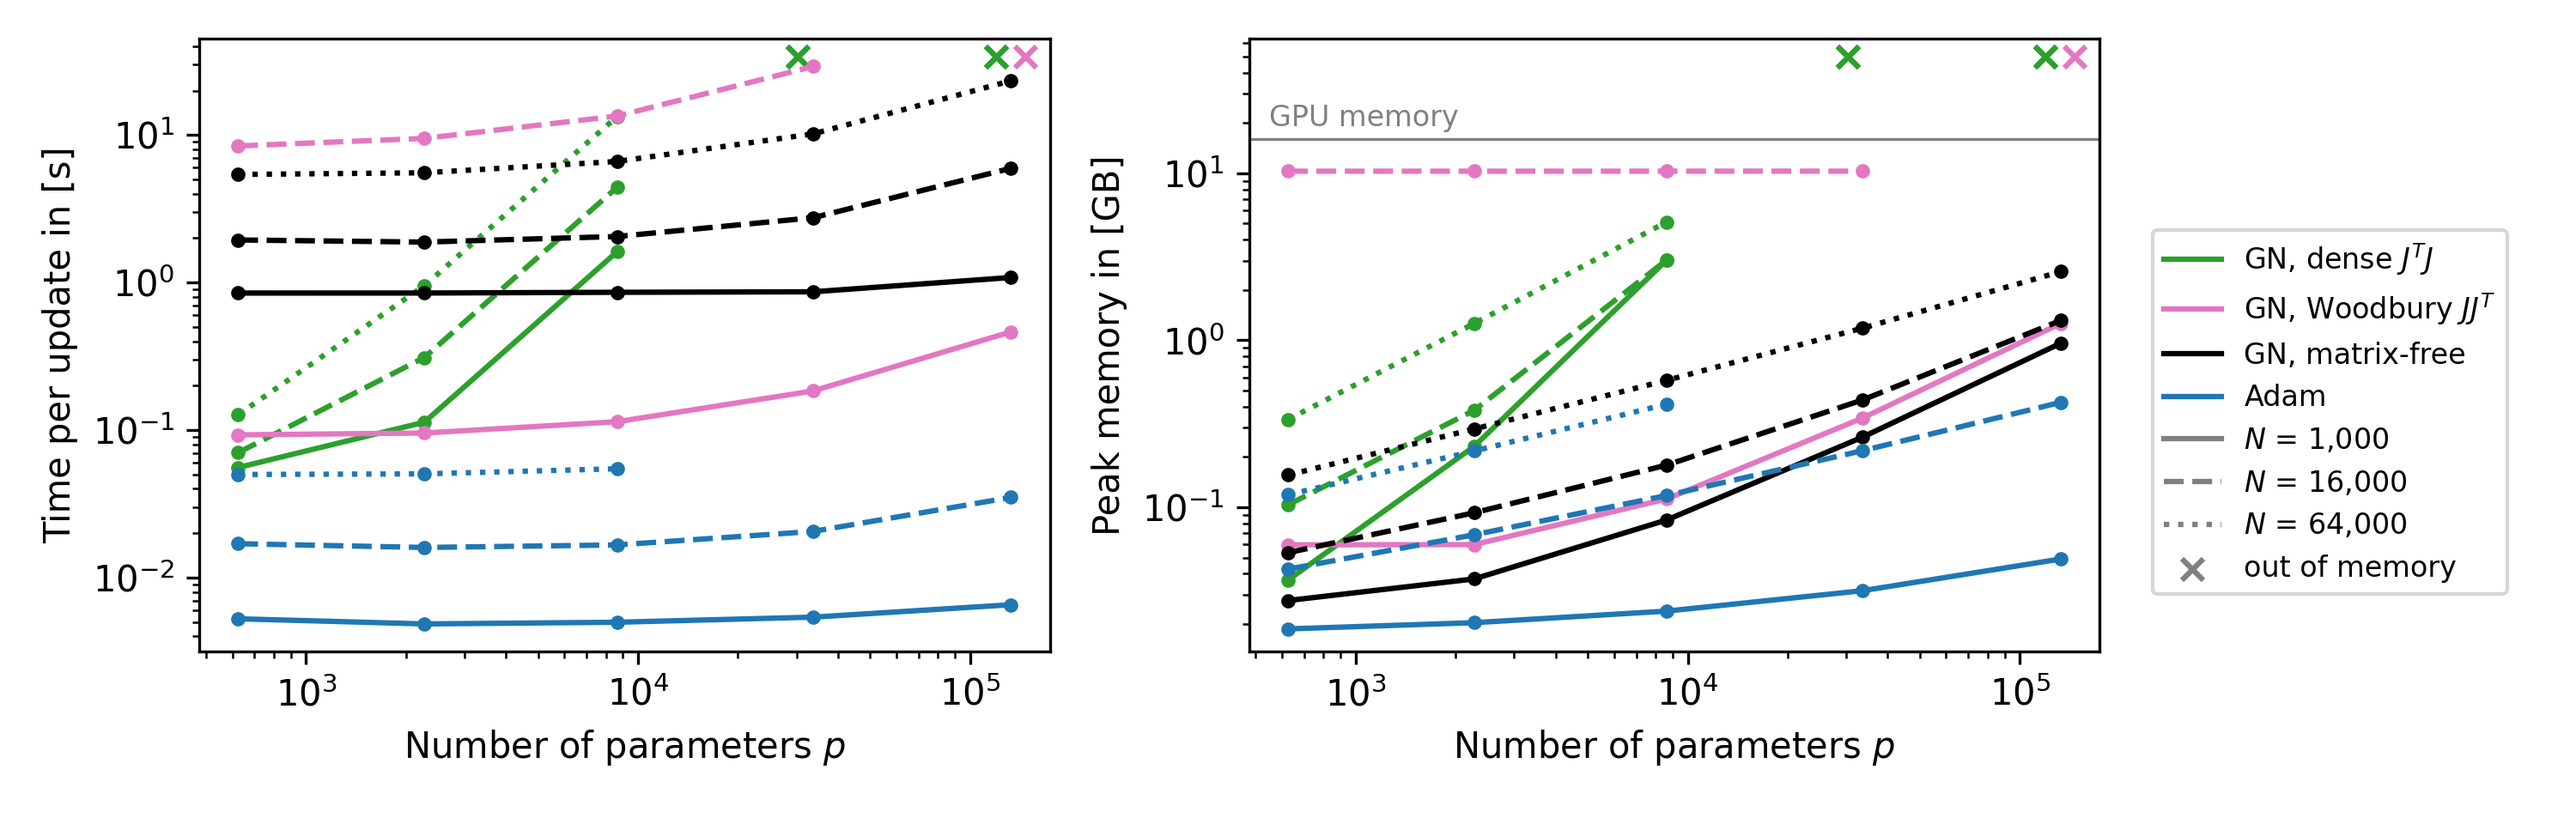
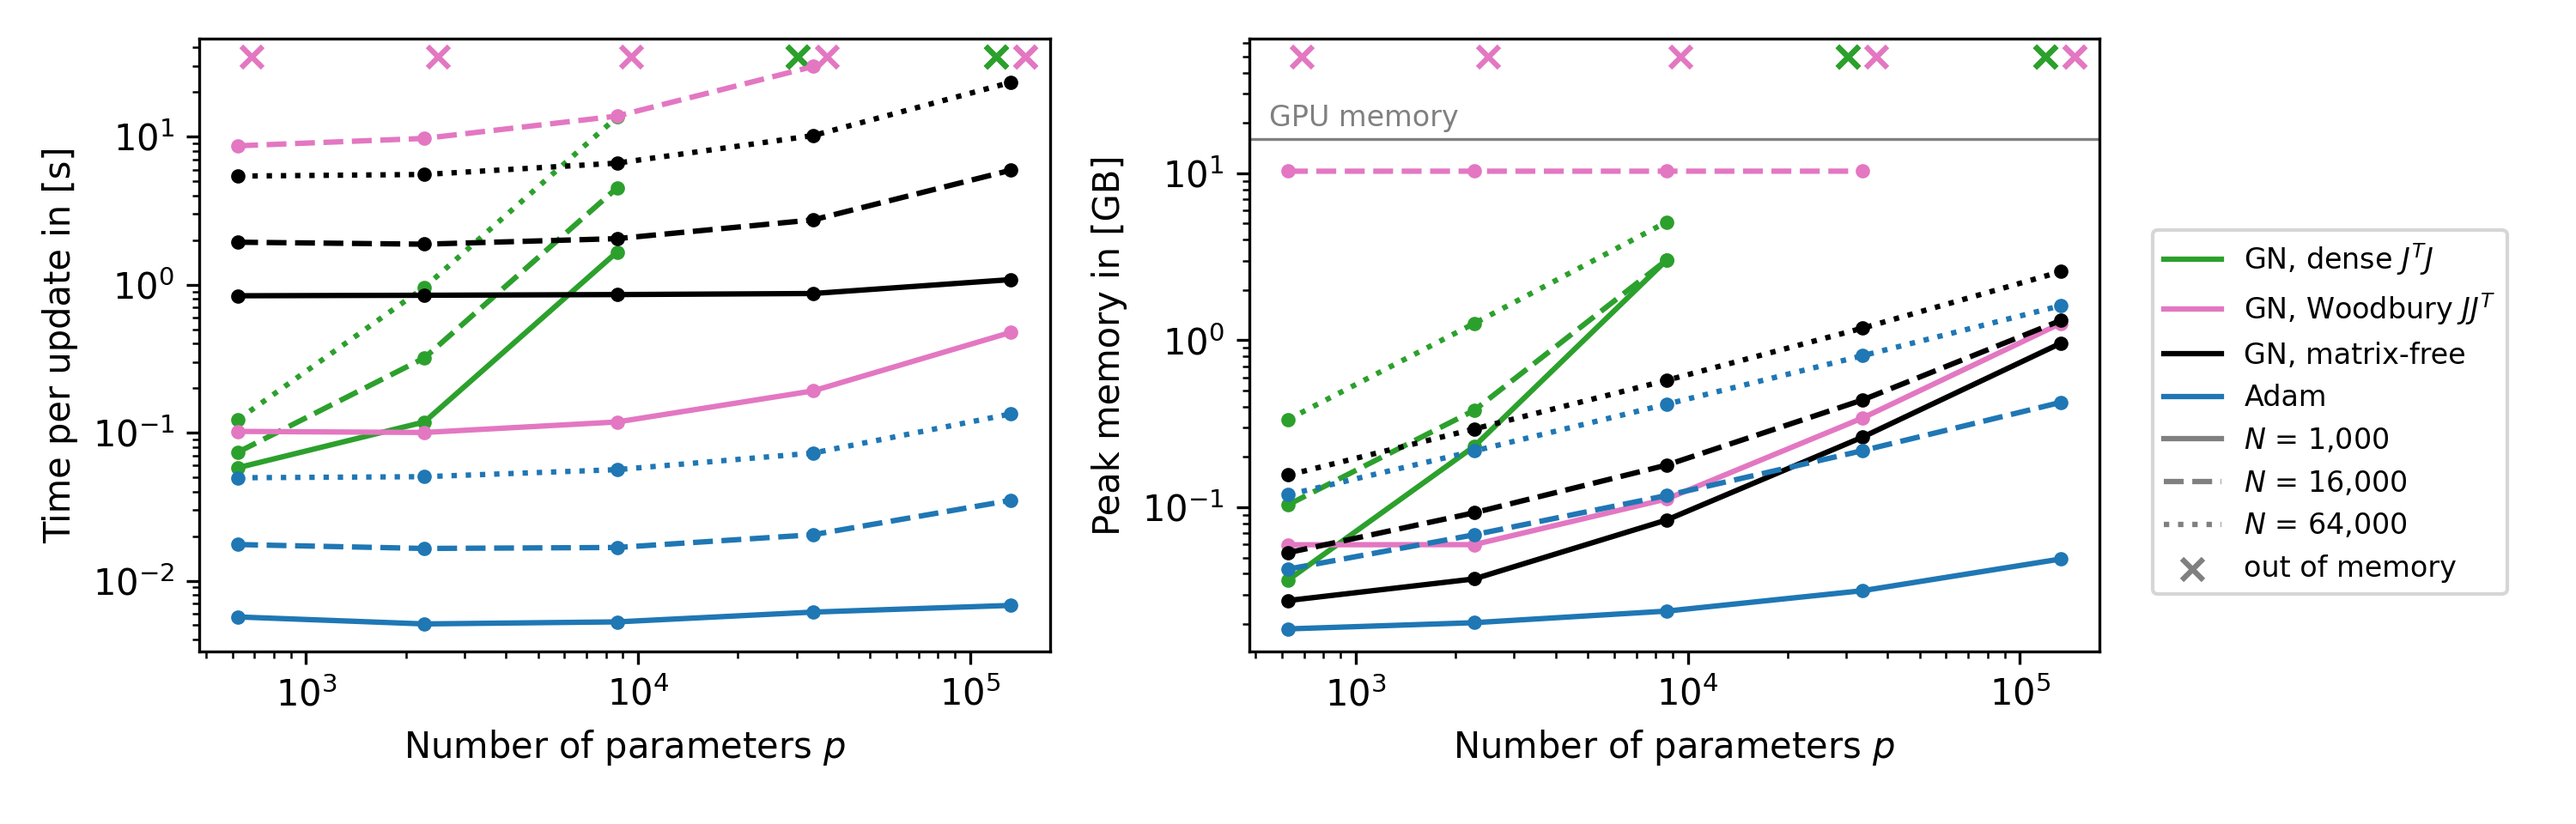
Small changes

diff --git a/experiments/slices.py b/experiments/slices.py
@@ -5,7 +5,7 @@ The model f on the plane y = 0 over training time (Section 3.1), from runs with 
 
 One row per run, one column per time (the snapshot closest to it). Each panel shows f (colour; fading to white means f
 shrinks towards 0), its zero set (black), the true surface (dashed), other solutions (dotted) and the boundary points
-in the plane (dots). The plane is the box of task.mesh_bbox in x and z.
+in the plane (dots). The plane is task.slice_box ((x0, z0), (x1, z1)) if the task has one, else task.mesh_bbox in x and z.
 Writes experiments/results/<task>/<exp>/<name>.png, or paper_figures/<task>_<name>.png with --paper (default name: slices).
 """
 
@@ -22,12 +22,14 @@ PAPER_FIGURES_DIR = os.path.join(os.path.dirname(os.path.dirname(__file__)), "pa
 
 def slices_figure(task, run_dirs, labels, times, path, vmax=1.0, n=201):
     (x0, _, z0), (x1, _, z1) = task.mesh_bbox
+    if hasattr(task, "slice_box"):
+        (x0, z0), (x1, z1) = task.slice_box
     X, Z = torch.meshgrid(torch.linspace(x0, x1, n, dtype=torch.float64), torch.linspace(z0, z1, n, dtype=torch.float64), indexing="ij")
     pts = torch.stack([X.flatten(), torch.zeros(X.numel(), dtype=torch.float64), Z.flatten()], 1)
     bd = task.pts_boundary.cpu()
     bd = bd[bd[:, 1].abs() < 1e-2]
     model = task.model()
-    w = 2.0 * (x1 - x0) / (z1 - z0)
+    w = max(2.0 * (x1 - x0) / (z1 - z0), 2.6)  ## panel width; at least the width of the title
     fig, axs = plt.subplots(len(run_dirs), len(times), figsize=(w * len(times), 2.0 * len(run_dirs)), squeeze=False)
     for r, (row, run_dir, label) in enumerate(zip(axs, run_dirs, labels)):
         snaps = torch.load(os.path.join(run_dir, "snapshots.pt"), map_location=pts.device)

diff --git a/experiments/tasks/cone.py b/experiments/tasks/cone.py
@@ -18,7 +18,8 @@ class Cone(CurvatureTask):
     opt_defaults = {**CurvatureTask.opt_defaults, "adam": dict(lr=1e-4)}
     paper_data = "notebooks/Data Cone/{}_over_time_cone_{}.pth"
     mesh_bbox = ((-2, -2, -0.05), (2, 2, 1.05))
-    heatmap = dict(color_range=(0, 0.005), elevation=25, azimuth=0, gap=0.08)  ## Figure 3a
+    heatmap = dict(color_range=(0, 0.002), elevation=25, azimuth=0, gap=0.08)  ## Figure 3a
+    slice_box = ((-1.3, -0.4), (1.3, 1.4))  ## for experiments.slices (mesh_bbox is too flat)
 
     def __init__(self, r_bottom=1.0, r_top=0.4, height=1.0):
         self.r_bottom, self.r_top, self.height = r_bottom, r_top, height
@@ -39,6 +40,13 @@ class Cone(CurvatureTask):
     @staticmethod
     def circle(r, z, t):
         return torch.vstack([r * torch.sin(t), r * torch.cos(t), torch.zeros_like(t) + z]).T
+
+    def slice_curves(self):
+        """The true mantle and the planes through the circles in the plane y = 0, as (x, z) curves (experiments.slices)."""
+        z = torch.linspace(0, self.height, 2, dtype=torch.float64)
+        x = torch.linspace(-1.3, 1.3, 2, dtype=torch.float64)
+        return {"cone": [(self.radius(z), z), (-self.radius(z), z)],
+                "planes": [(x, torch.zeros_like(x)), (x, torch.full_like(x, self.height))]}
 
     def level_set(self, p):
         return p[:, 0]**2 + p[:, 1]**2 - self.radius(p[:, 2])**2

diff --git a/experiments/scaling.py b/experiments/scaling.py
@@ -41,7 +41,7 @@ OUT_DIR = os.path.join(RESULTS_DIR, "scaling")
 VARIANTS = ["dense", "woodbury", "cg", "cg_plain", "adam", "residual"]
 LABELS = {"dense": r"GN, dense $J^TJ$", "woodbury": r"GN, Woodbury $JJ^T$", "cg": "GN, matrix-free",
           "cg_plain": "GN, matrix-free, no preconditioner", "adam": "Adam", "residual": "Residual evaluation"}
-MAX_GB = 16.0  ## GPU memory (RTX 5080); dense configurations whose p x p matrix alone exceeds a third of it are not tried
+MAX_GB = 16.0  ## GPU memory (RTX 5080); dense (Woodbury) configurations whose p x p (N x N) matrix alone exceeds a third of it are not tried
 COLORS = {"dense": "tab:green", "woodbury": "tab:pink", "cg": "black", "cg_plain": "tab:gray", "adam": "tab:blue"}  ## GN and Adam as in the paper figures
 
 
@@ -89,6 +89,8 @@ def measure(kind, width, n, variant, repeats):
     model, res_terms = setup(kind, width, n)
     p = sum(q.numel() for q in model.parameters())
     if variant == "dense" and 8 * p ** 2 / 1e9 > MAX_GB / 3:  ## J^T J, J^T J + eps I and the solver's copy
+        return p, "oom"
+    if variant == "woodbury" and 8 * n ** 2 / 1e9 > MAX_GB / 3:  ## the same for the N x N matrix J J^T
         return p, "oom"
     gn = GaussNewtonNew(model, res_terms)
     if variant == "adam":

diff --git a/experiments/tasks/implicit_shape.py b/experiments/tasks/implicit_shape.py
@@ -21,7 +21,7 @@ NOTEBOOKS_DIR = __file__.rsplit("experiments", 1)[0] + "notebooks/"
 
 class ImplicitShapeTask:
     loss_keys = ["data", "normal"]
-    eikonal_weights = {"gn": 1e-2, "adam": 1e-1, "lbfgs": 1e-1}
+    eikonal_weights = {"gn": 1e-2, "adam": 1e-1, "lbfgs": 1e-1}  ## LBFGS: sweep over 1 ... 1e-4 (seed 0), best two checked on 5 seeds
     opt_defaults = {
         "gn":    dict(lr=1e-1, regularization=1e-6, do_line_search=True),
         "adam":  dict(lr=1e-3),  ## the cosine schedule of the notebooks was never stepped
